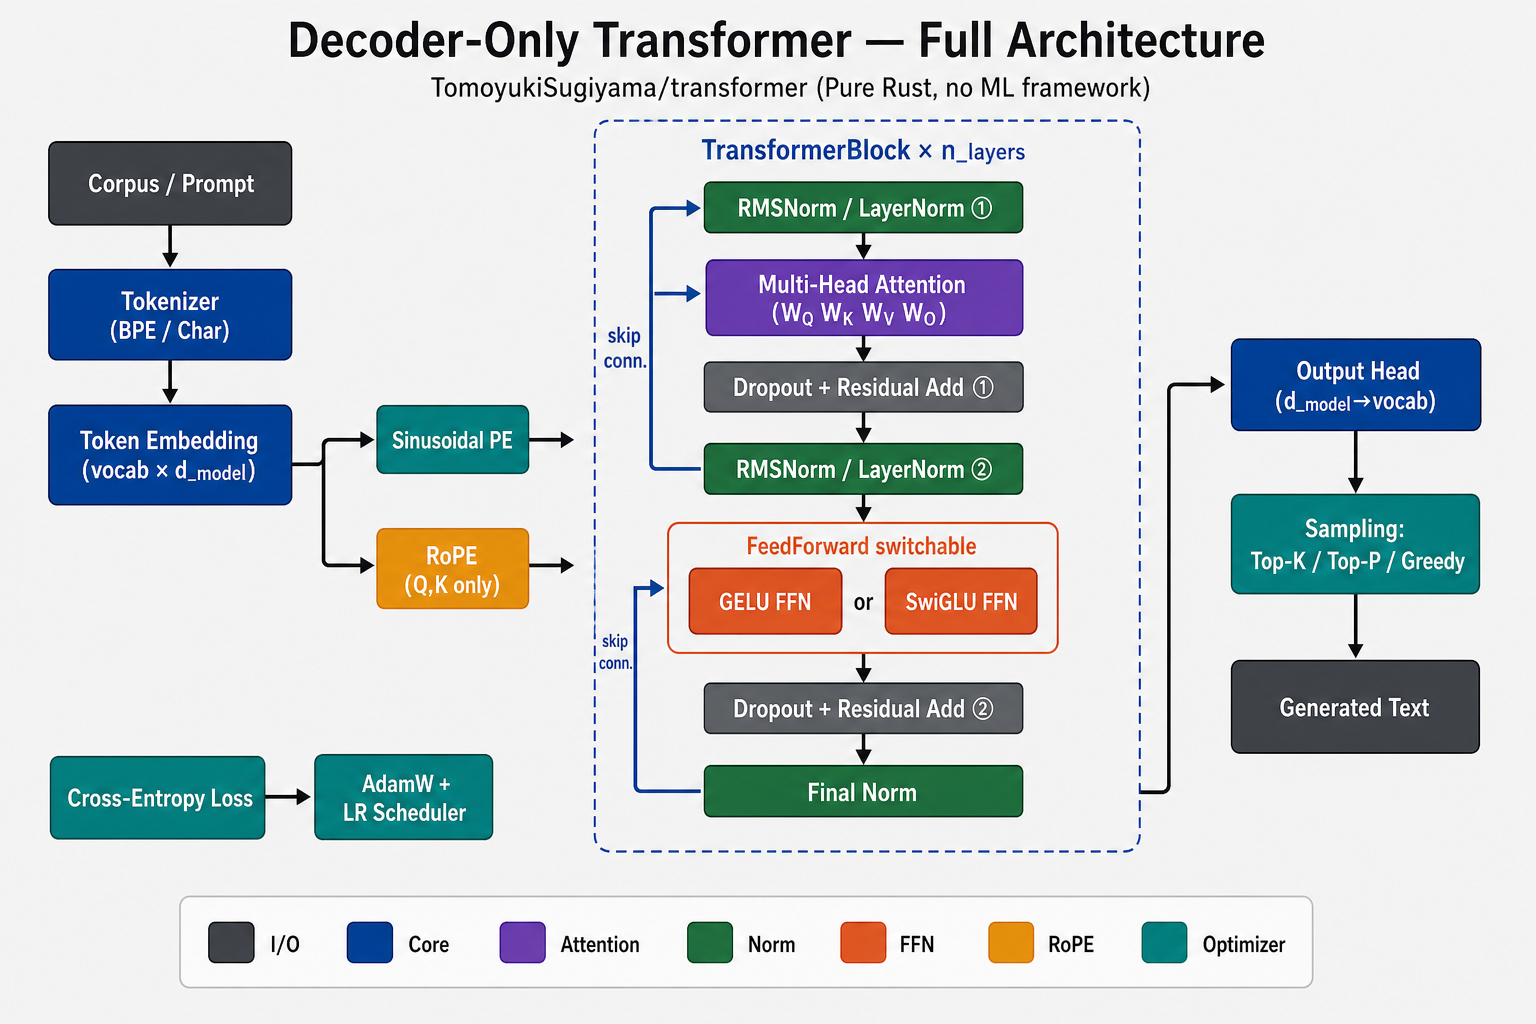
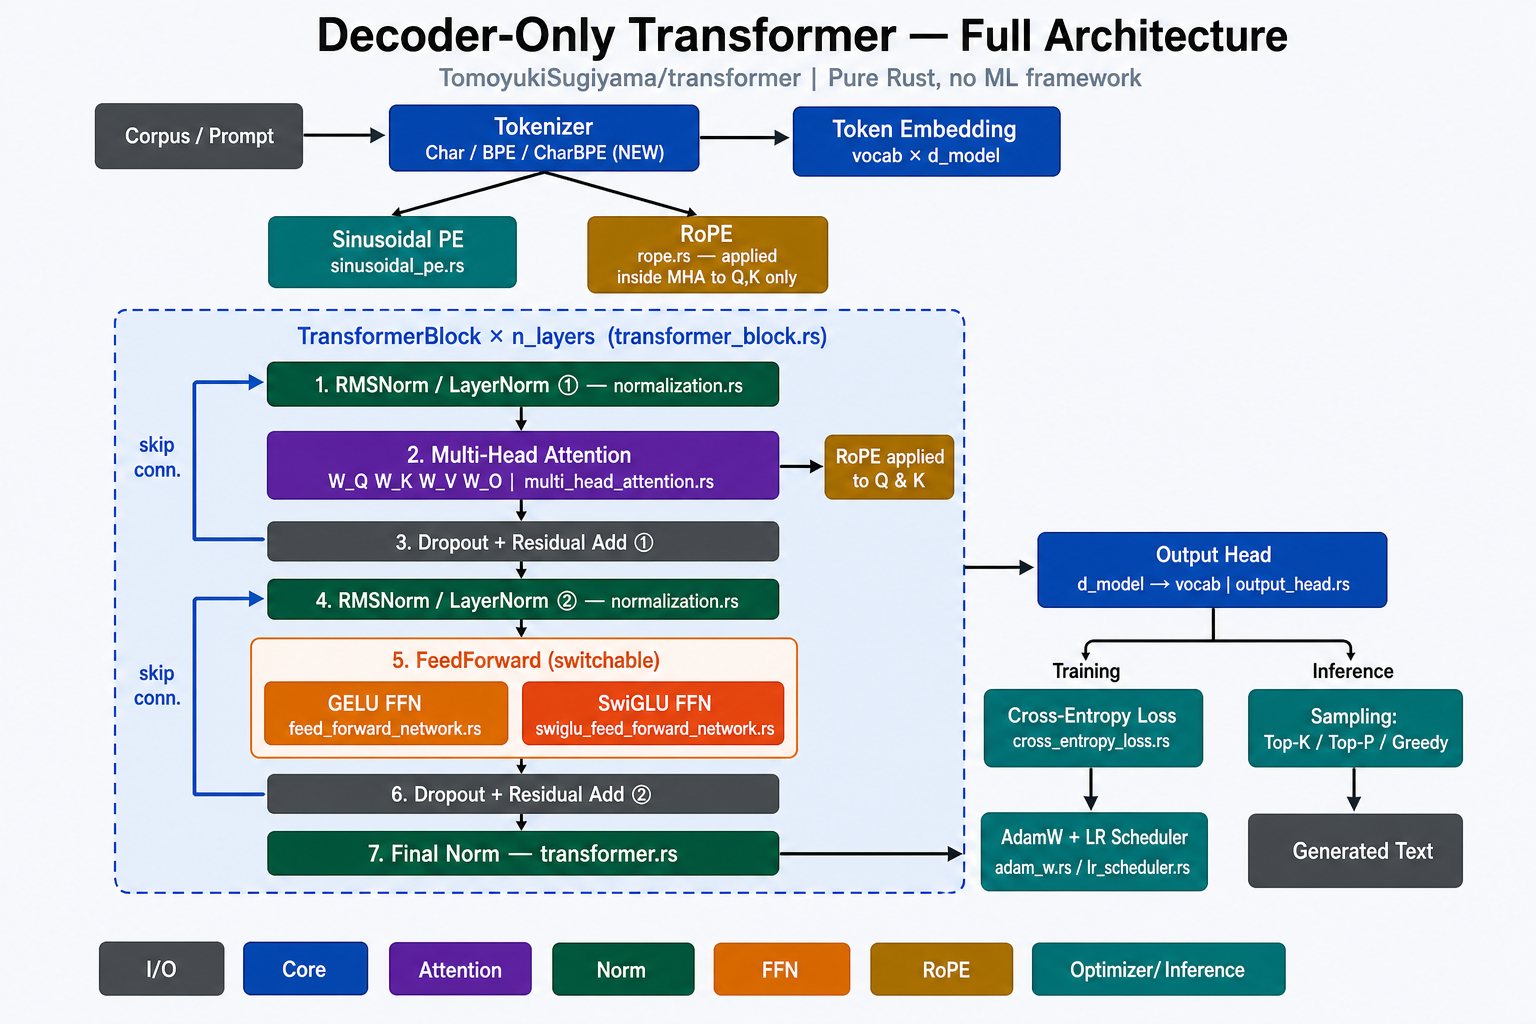
推論周りの説明用画像追加

diff --git a/src/main.rs b/src/main.rs
@@ -536,7 +536,11 @@ fn main() {
     // 期待: 1 token あたり ~1.56 char、 実質 context ~800 char (Phase 5-4a の 512 char から +56%)、
     //       BPC 4.18 (Phase 5-4a) より低下するかが評価の本質。
     let cfg = Config::aozora_meiji_taisho_charbpe8k_max512();
-    training_and_inference(&cfg);
+    // training_and_inference(&cfg);
+    inference_from_checkpoint(
+        &cfg,
+        "checkpoints/phase6a_aozora_meiji_taisho_d512_n6_charbpe8k_rms_swiglu_rope_max512/best.bin",
+    );
 
     // Phase 6-a tokenizer の cache 経由動作確認 (training 起動前にトークナイザだけ試したいとき):
     // bench_tokenizer_with_cache(&cfg);

diff --git a/docs/phase6.md b/docs/phase6.md
@@ -25,6 +25,10 @@
 
 ### Unicode char-level BPE (`src/char_bpe_tokenizer.rs`)
 
+![Tokenizer Family — 3 implementations + CharBPE (NEW)](tokenizer-family.png)
+
+上図は `Tokenizer` trait を実装する 3 種類のトークナイザの比較。 **CharBpeTokenizer** が Phase 6 で新規追加した実装で、 既存の `CharTokenizer` / `BpeTokenizer` と並列で `TokenizerKind` enum 経由で選択できる。 特殊 token (`<PAD>` / `<UNK>` / `<BOS>` / `<EOS>`) の ID 0-3 は 3 実装で共通。
+
 | 項目 | byte-level BPE (既存) | **char-level BPE (Phase 6)** |
 |------|--------------------|----------------------------|
 | 初期トークン単位 | byte (`b099` 形式) | **Unicode char そのもの** |

diff --git a/docs/kv_cache.md b/docs/kv_cache.md
@@ -3,6 +3,10 @@
 > **目的**: 自己回帰生成 (autoregressive decoding) の per-token 計算量を
 > `O(n²·d)` → `O(n·d)` に削減する。
 
+![Inference Pipeline with KV Cache](inference-pipeline.png)
+
+上図は `language_model.rs` + `kv_cache.rs` で構成される推論パイプライン全体。 左ペインが checkpoint ロードから生成テキスト出力までのフロー、 右ペインが per-layer の `KvCache` の内部構造を示す。 以下は各要素の詳細解説。
+
 ## なぜ KV cache が必要か
 
 通常の forward は **「prompt + 既生成 token 全部」** を入力として、 全位置の attention を
